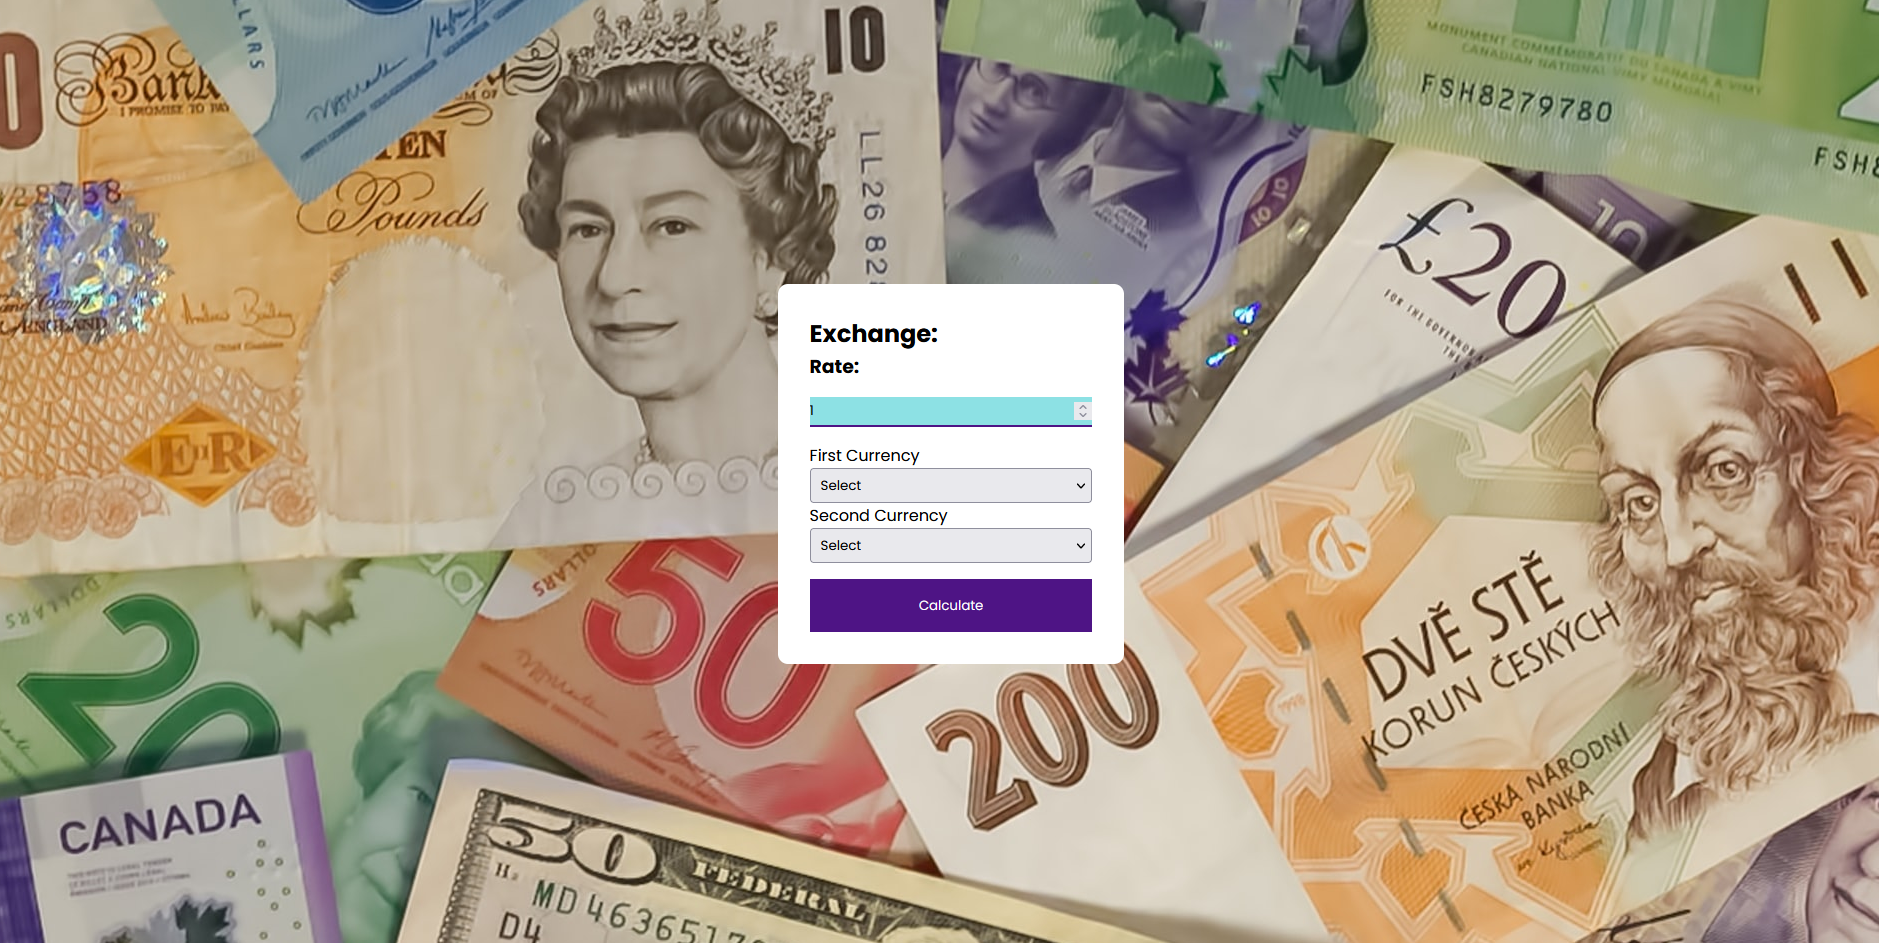
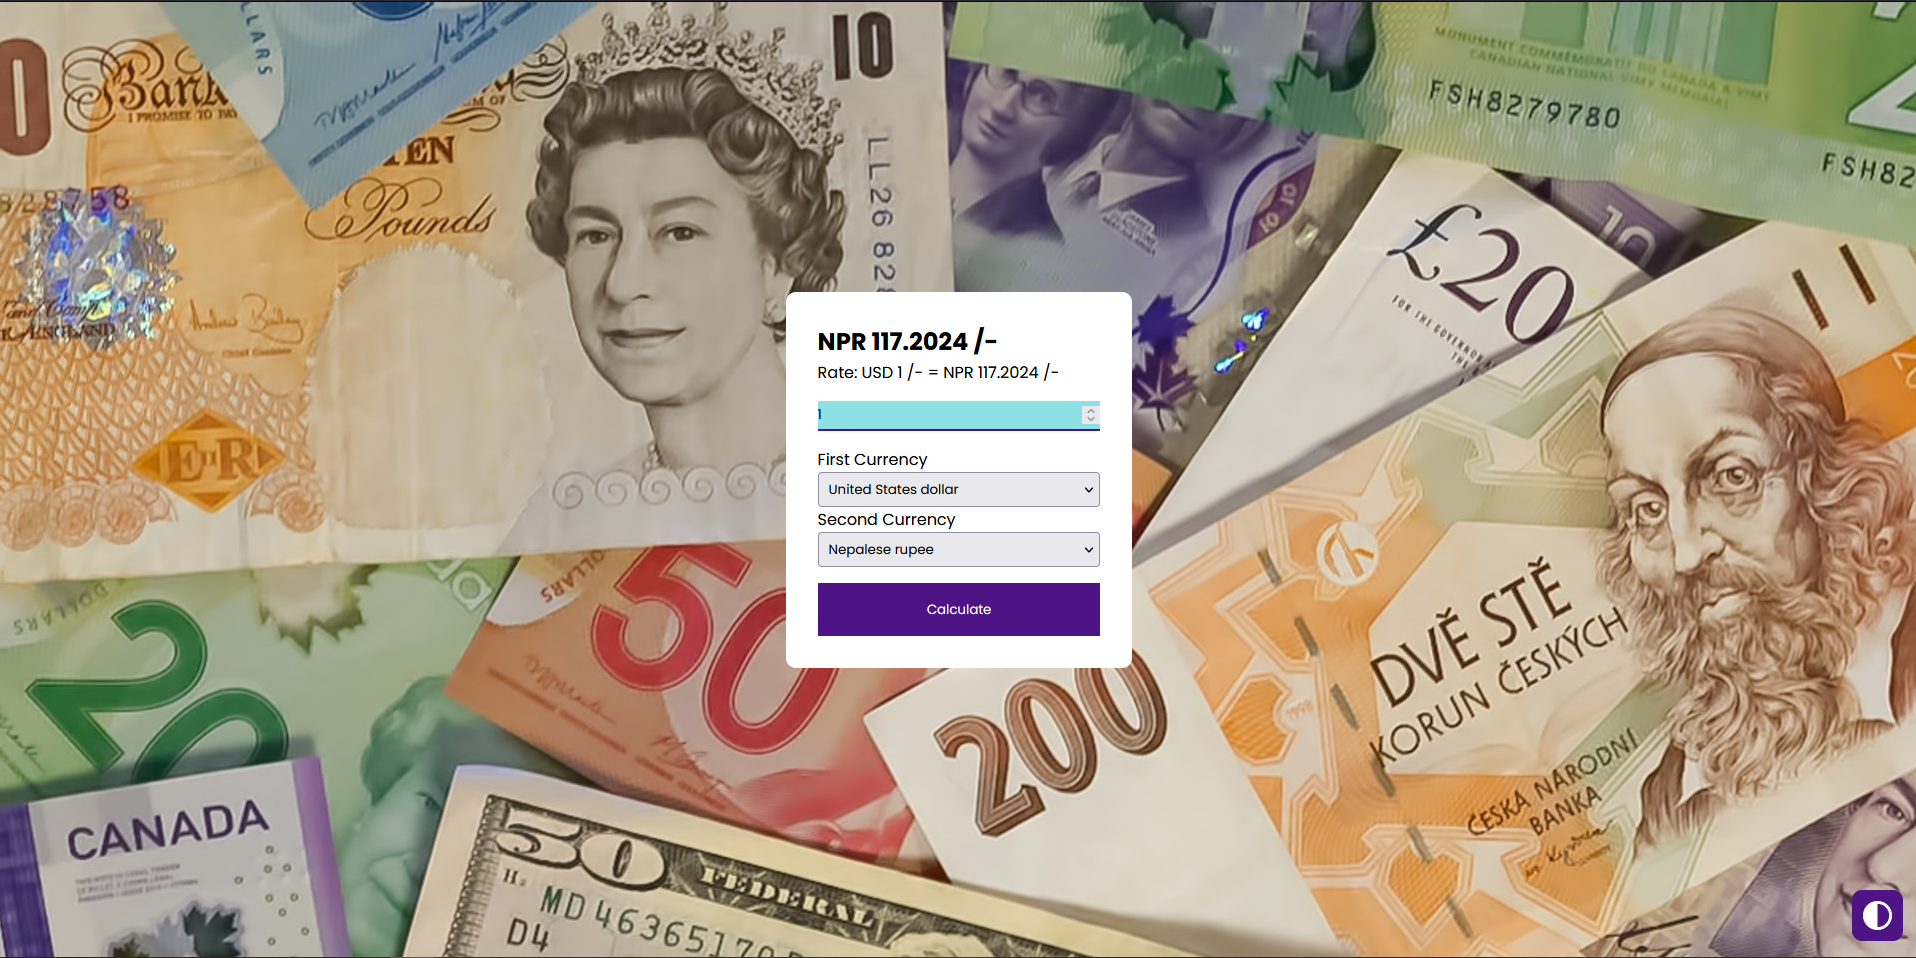
Update with theme switcher

diff --git a/main.js b/main.js
@@ -1,59 +1,55 @@
-function getdata() {
-    var obj;
-    console.log("hello");
-    fetch('https://cdn.jsdelivr.net/gh/fawazahmed0/currency-api@1/latest/currencies.json')
-    .then(res => res.json())
-    .then(data => obj = data)
-    .then(() => {
-        globalThis.currency_codes=obj;
-        globalThis.currency_codes_keys= Object.keys(obj);
-
-        for(i=0;i<currency_codes_keys.length;i++){
-            var option = document.createElement('option');
-            option.value= currency_codes_keys[i];
-            option.innerText= currency_codes[option.value];
-            document.getElementById('fcurrency').appendChild(option);
-        }
-        for(i=0;i<currency_codes_keys.length;i++){
-            var option = document.createElement('option');
-            option.value= currency_codes_keys[i];
-            option.innerText= currency_codes[option.value];
-            document.getElementById('scurrency').appendChild(option);
-        }
-    });
-    console.log("hello");
+let theme=false;
+let body = document.getElementsByTagName('body')[0];
+async function Cook() {
+    url='https://cdn.jsdelivr.net/gh/fawazahmed0/currency-api@1/latest/currencies.json';
+    const response = await fetch(url);
+    const json = await response.json();
+    addOptions('fcurrency',json);
+    addOptions('scurrency',json);
 }
 
-function addOptions(id){
-    for(i=0;i<currency_codes_keys.length;i++){
+function addOptions(id,obj){
+    let keys=Object.keys(obj);
+    for(i=0;i<keys.length;i++){
         var option = document.createElement('option');
-        option.value= currency_codes_keys[i];
-        option.innerText= currency_codes[option.value];
+        option.value= keys[i];
+        option.innerText= obj[option.value];
         document.getElementById(id).appendChild(option);
     }
 }
 
-function calculate(){
-    fcr=document.getElementById('fcurrency').value;
-    scr=document.getElementById('scurrency').value;
-    
-    var obj;
-    fetch('https://raw.githubusercontent.com/fawazahmed0/currency-api/1/latest/currencies/'+fcr+'/'+scr+'.json')
-    .then(res => res.json())
-    .then(data => obj = data)
-    .then(() =>{
-        keys=Object.keys(obj)
-        document.getElementById('exrate').innerText=obj[keys[1]]
-        document.getElementById('exvalue').innerText=document.getElementById('currency-id').value*obj[keys[1]]
-        //console.log(obj)
-    });
-   
+async function calculate(){
+    let fcr=document.getElementById('fcurrency').value;
+    let scr=document.getElementById('scurrency').value;
+    let calUrl='https://raw.githubusercontent.com/fawazahmed0/currency-api/1/latest/currencies/'+fcr+'/'+scr+'.json';
+    const response = await fetch(calUrl);
+    const json = await response.json();
+    keys=Object.keys(json);
+    let rate=fcr.toUpperCase()+" 1 /- = "+scr.toUpperCase()+" "+json[keys[1]]+" /-";
+    document.getElementById('exrate').innerText=rate;
+    document.getElementById('exvalue').innerText=scr.toUpperCase()+" "+document.getElementById('currency-id').value*json[keys[1]]+" /-";
 }
-function load(){
 
+
+function toggleTheme() {
+    console.log(theme);
+    let switcher=document.getElementById("switcher");
+    let cross=document.getElementById("cross-icon");
+    let themeicon=document.getElementById("theme-icon");
+    if(theme==false){
+        switcher.style.display="block";
+        cross.style.display="block";
+        themeicon.style.display="none";
+        theme=true;
+    }else{
+        switcher.style.display="none";
+        cross.style.display="none";
+        themeicon.style.display="block";
+        theme=false;
+    }
 }
-getdata();
-
-
-
-
+function changeTheme(theme) {
+    body.classList.replace(body.classList[0],theme);
+}
+Cook();
+calculate();

diff --git a/index.html b/index.html
@@ -7,11 +7,14 @@
     <link rel="stylesheet" href="style.css">
     <title>Currency Exchange</title>
 </head>
-<body>
+<body class="clasic">
     <div class="container">
         <div class="output">
-            <h2>Exchange: <span id="exvalue"></span></h2>
-            <h3>Rate: <span id="exrate"></span></h3>
+
+            <h2><span id="exvalue"></span></h2>
+            <div>
+                Rate: <span id="exrate"></span>
+            </div>
         </div>
         <div class="action">
             <div><input type="number" id="currency-id" value="1"></div>
@@ -19,19 +22,30 @@
                 <div>
                 <label for="fcurrency">First Currency</label>
                 <select name="fcurrency" id="fcurrency">
-                    <option value="null">Select </option>
+                    <option value="usd">United States dollar</option>
                 </select>
             </div>
             <div>
                 <label for="scurrency">Second Currency</label>
                 <select name="scurrency" id="scurrency">
-                    <option value="null">Select </option>
+                    <option value="npr">Nepalese rupee</option>
                 </select>
             </div>
             </div>
             <div>
                 <button id="convert" class="convert" onclick="calculate()">Calculate </button>
             </div>
+        </div>
+    </div>
+    <div id="theme-switcher" >
+        <div id="switcher">
+            <div class="theme-select" onclick="changeTheme('clasic')">Clasic</div>
+            <div class="theme-select" onclick="changeTheme('morden')">Morden</div>
+            <div class="theme-select" onclick="changeTheme('coin')">Coin</div>
+        </div>
+        <div onclick="toggleTheme()" class="icons">
+            <svg   id='theme-icon' xmlns="http://www.w3.org/2000/svg" xmlns:xlink="http://www.w3.org/1999/xlink" aria-hidden="true" focusable="false"  style="-ms-transform: rotate(360deg); -webkit-transform: rotate(360deg); transform: rotate(360deg);" preserveAspectRatio="xMidYMid meet" viewBox="0 0 24 24"><g ><path d="M12 22c5.523 0 10-4.477 10-10S17.523 2 12 2S2 6.477 2 12s4.477 10 10 10zm0-2V4a8 8 0 1 1 0 16z" /></g><rect x="0" y="0" width="50" height="50" fill="rgba(0, 0, 0, 0)" /></svg>
+            <svg id="cross-icon" xmlns="http://www.w3.org/2000/svg" xmlns:xlink="http://www.w3.org/1999/xlink" aria-hidden="true" focusable="false"  style="-ms-transform: rotate(360deg); -webkit-transform: rotate(360deg); transform: rotate(360deg);" preserveAspectRatio="xMidYMid meet" viewBox="0 0 15 15"><path d="M2.64 1.27L7.5 6.13l4.84-4.84A.92.92 0 0 1 13 1a1 1 0 0 1 1 1a.9.9 0 0 1-.27.66L8.84 7.5l4.89 4.89A.9.9 0 0 1 14 13a1 1 0 0 1-1 1a.92.92 0 0 1-.69-.27L7.5 8.87l-4.85 4.85A.92.92 0 0 1 2 14a1 1 0 0 1-1-1a.9.9 0 0 1 .27-.66L6.16 7.5L1.27 2.61A.9.9 0 0 1 1 2a1 1 0 0 1 1-1c.24.003.47.1.64.27z" /><rect x="0" y="0" width="15" height="15" fill="rgba(0, 0, 0, 0)" /></svg>
         </div>
     </div>
     <script src="./main.js"></script>

diff --git a/style.css b/style.css
@@ -1,9 +1,15 @@
 @import url(https://fonts.googleapis.com/css?family=Poppins:100,100italic,200,200italic,300,300italic,regular,italic,500,500italic,600,600italic,700,700italic,800,800italic,900,900italic);
+:root{
+    --PrimaryColor:hsl(271, 74%, 30%);
+    --SecondaryColor:rgb(44, 92, 66);
+    --LightColor:white;
+}
 *{
     margin: 0;
     padding: 0;
     font-family: Poppins;
     box-sizing: border-box;
+    
 }
 body{
     height: 100vh;
@@ -33,20 +39,81 @@ select{
     width:100%;
     height: 30px;
     border: none;
-    border-bottom: 2px solid hsl(271, 74%, 30%);
+    border-bottom: 2px solid var(--PrimaryColor);
     background-color: rgb(141, 225, 228);
 }
 .convert{
     padding: 1rem;
     border: none;
-    background-color: hsl(271, 74%, 30%);
+    background-color: var(--PrimaryColor);
     color: white;
     transition: .4s ease-in-out;
 }
 .convert:hover{
-    background-color: rgb(44, 92, 66);
+    background-color: --SecondaryColor;
 }
 .action div{
     display: grid;
-    grid-template-row: 1fr 1fr;
+    /* grid-template-rows: 1fr 1fr; */
+}
+/* themeswitcher */
+#theme-switcher{
+    position: fixed;
+    bottom: 1rem;
+    right: 1rem;
+    z-index: 10000;
+    background-color: var(--PrimaryColor);
+    padding: .5rem;
+    border-radius: 10px;
+}
+#theme-icon,#cross-icon {
+    width: 35px;
+    fill:var(--LightColor);
+    position: relative;
+}
+#cross-icon{
+    padding: 4px;
+    width: 30px;
+    display: none;
+}
+#switcher{
+    
+    background-color: white;
+    padding: .5rem;
+    display: none;
+}
+.icons{
+    display: flex;
+    justify-content: right;
+    align-items: center;
+}
+.theme-select{
+    width: 150px;
+    padding: .5rem;
+}
+.theme-select:hover,.theme-select:nth-child(odd):hover{
+    background-color: var(--PrimaryColor);
+    color: var(--LightColor);
+}
+.theme-select:nth-child(odd){
+    background-color: lightgray;
+}
+.clasic{
+    --PrimaryColor:hsl(271, 74%, 30%);
+    --SecondaryColor:rgb(44, 92, 66);
+    --LightColor:white;
+    background-image: url(./imgs/john-mcarthur-ROQzKIAdY78-unsplash.jpg);
+}
+.morden{
+    --PrimaryColor: #1E90FF;
+    --SecondaryColor:rgb(57, 201, 201);
+    --LightColor:white;
+   
+    background-image: url(./imgs/marga-santoso-OmPqCwX422Y-unsplash.jpg);
+}
+.coin{
+    --PrimaryColor:hsl(61, 52%, 48%);
+    --SecondaryColor:rgb(201, 103, 57);
+    --LightColor:white;
+    background-image: url(./imgs/rupixen-com-iSs4_hV7j2A-unsplash.jpg);
 }
